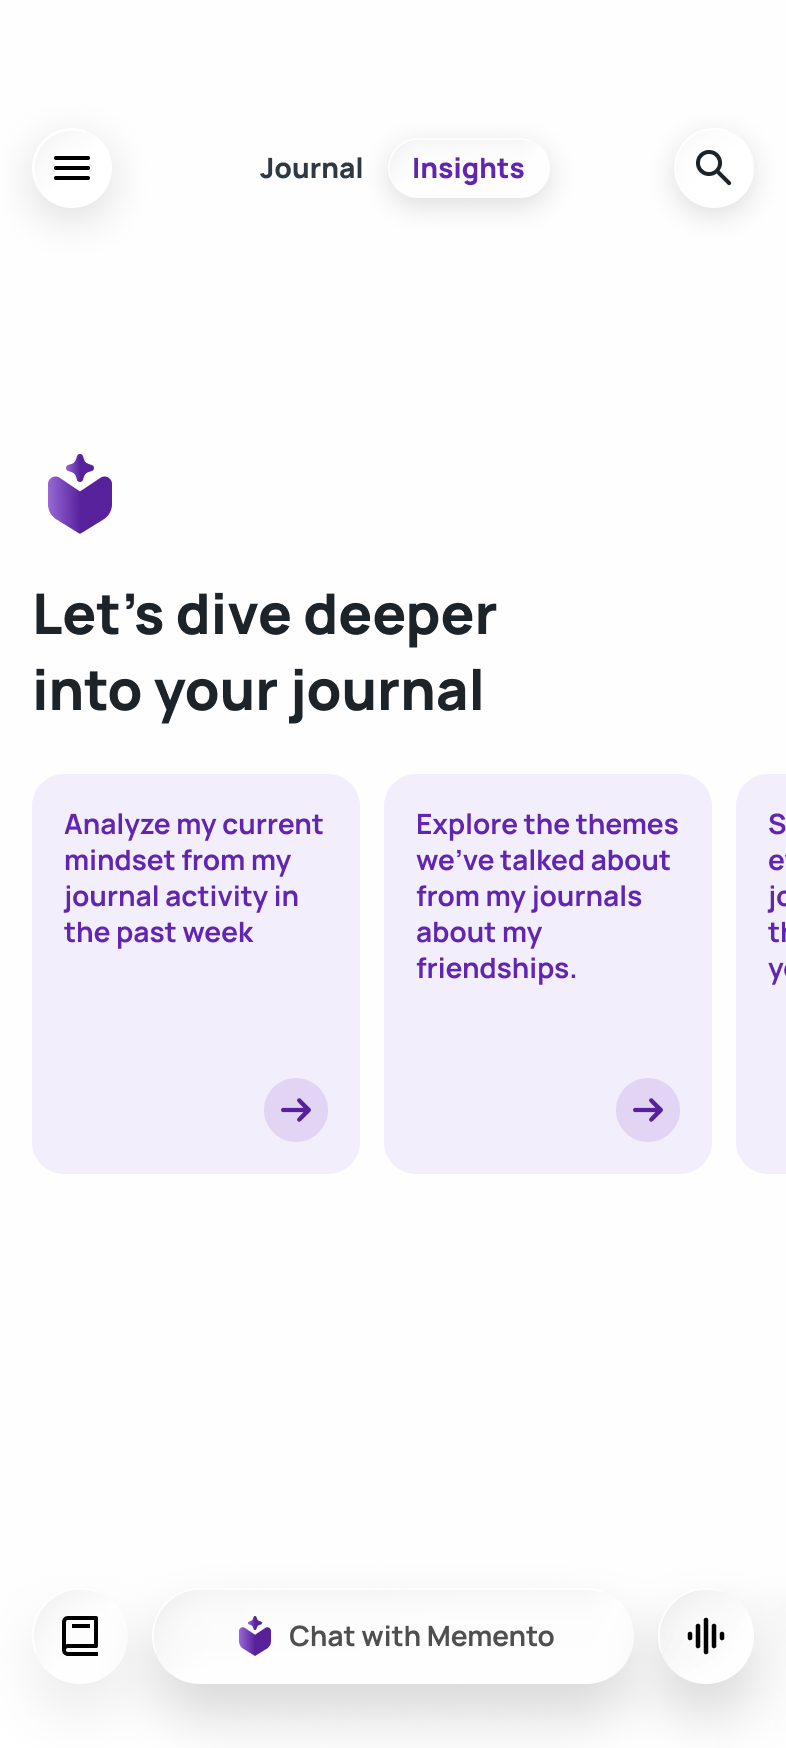
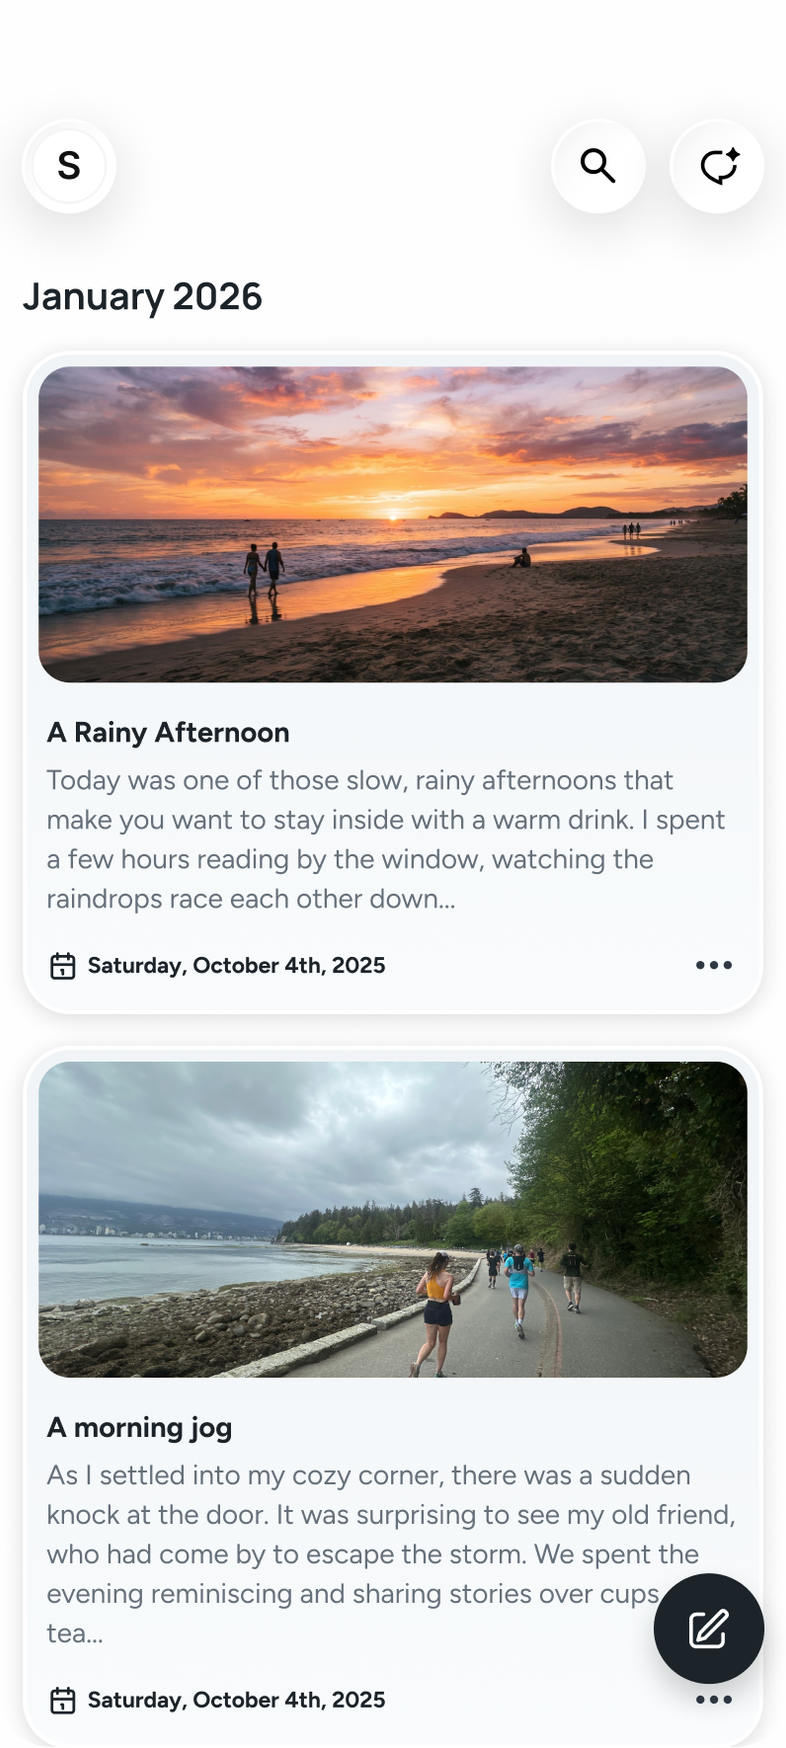
Fix deprecated Memento preview stills and drop rectangle tap outlines
Keep shipped Memento stills over stale CMS media, flatten phone screenshots, and remove rectangle tap outlines on index rows and the modal close control.

diff --git a/src/components/PortfolioIndex/PortfolioIndex.css b/src/components/PortfolioIndex/PortfolioIndex.css
@@ -143,10 +143,8 @@
 
 .portfolio-index__bio-link:focus-visible,
 .portfolio-index__link:focus-visible,
-.portfolio-index__item:focus-visible,
 .portfolio-index__well-cta:focus-visible,
-.portfolio-index__well-device:focus-visible,
-.portfolio-index__modal-close:focus-visible {
+.portfolio-index__well-device:focus-visible {
   outline: 2px solid var(--color-focus-ring);
   outline-offset: 2px;
   border-radius: 2px;
@@ -220,6 +218,8 @@
   padding: 0;
   border: 0;
   background: none;
+  appearance: none;
+  -webkit-appearance: none;
   font: inherit;
   font-size: 14px;
   line-height: 1.4;
@@ -230,6 +230,17 @@
   touch-action: pan-y;
   opacity: 0.42;
   transition: opacity var(--transition-fast);
+  -webkit-tap-highlight-color: transparent;
+}
+
+.portfolio-index__item:focus,
+.portfolio-index__item:focus-visible,
+.portfolio-index__item:active {
+  outline: none;
+}
+
+.portfolio-index__item:focus-visible {
+  opacity: 1;
 }
 
 .portfolio-index__item.is-active,
@@ -802,8 +813,21 @@
   padding: 0;
   border: 0;
   background: none;
+  appearance: none;
+  -webkit-appearance: none;
   color: var(--color-text-primary);
   cursor: pointer;
+  -webkit-tap-highlight-color: transparent;
+}
+
+.portfolio-index__modal-close:focus,
+.portfolio-index__modal-close:focus-visible,
+.portfolio-index__modal-close:active {
+  outline: none;
+}
+
+.portfolio-index__modal-close:focus-visible {
+  opacity: 0.72;
 }
 
 .portfolio-index__modal-close:hover {

diff --git a/src/lib/cms-data.test.ts b/src/lib/cms-data.test.ts
@@ -1,0 +1,34 @@
+import assert from 'node:assert/strict';
+import { test } from 'node:test';
+import { projects } from '../data/projects';
+import { mergeProject } from './cms-data';
+
+test('CMS preview src cannot replace shipped Memento stills', () => {
+  const memento = projects.find((project) => project.slug === 'memento-ai');
+  assert.ok(memento?.preview);
+
+  const merged = mergeProject(memento, {
+    thumbnail: '/assets/memento-ai.png',
+    preview: { src: '/assets/memento-ai.png' },
+  });
+
+  assert.equal(merged.preview?.src, '/assets/memento-journal-feed.png');
+  assert.equal(merged.preview?.companions?.[0]?.src, '/assets/memento-insights.png');
+  assert.equal(merged.thumbnail, '/assets/memento-journal-feed.png');
+});
+
+test('CMS can still attach preview video and url', () => {
+  const salesforce = projects.find((project) => project.slug === 'salesforce-help');
+  assert.ok(salesforce?.preview);
+
+  const merged = mergeProject(salesforce, {
+    preview: {
+      video: 'https://example.com/salesforce-help.mp4',
+      url: 'help.salesforce.com/s/contactsupport',
+    },
+  });
+
+  assert.equal(merged.preview?.src, salesforce.preview.src);
+  assert.equal(merged.preview?.video, 'https://example.com/salesforce-help.mp4');
+  assert.equal(merged.preview?.url, 'help.salesforce.com/s/contactsupport');
+});

diff --git a/src/lib/cms-data.ts b/src/lib/cms-data.ts
@@ -81,15 +81,25 @@ async function saveProjectsData(data: CmsData): Promise<void> {
   });
 }
 
-function mergeProject(base: Project, cms: CmsProjectData | undefined): Project {
+function mergePreview(
+  base: Project['preview'],
+  cms: CmsProjectData['preview'],
+): Project['preview'] {
+  if (!base) return base;
   if (!cms) return base;
   return {
     ...base,
-    thumbnail: cms.thumbnail ?? base.thumbnail,
-    preview:
-      base.preview && cms.preview
-        ? { ...base.preview, ...cms.preview }
-        : base.preview,
+    ...(cms.video ? { video: cms.video } : {}),
+    ...(cms.url ? { url: cms.url } : {}),
+  };
+}
+
+export function mergeProject(base: Project, cms: CmsProjectData | undefined): Project {
+  if (!cms) return base;
+  return {
+    ...base,
+    thumbnail: base.thumbnail ?? cms.thumbnail,
+    preview: mergePreview(base.preview, cms.preview),
     scrollyConfig: base.scrollyConfig
       ? {
           ...base.scrollyConfig,

diff --git a/src/data/projects.ts b/src/data/projects.ts
@@ -67,7 +67,7 @@ export const projects: Project[] = [
     company: 'Personal Project',
     role: 'Designer & Developer',
     tags: ['AI', 'Mobile', 'Personal'],
-    thumbnail: '/assets/memento-ai.png',
+    thumbnail: '/assets/memento-journal-feed.png',
     preview: {
       frame: 'phone',
       src: '/assets/memento-journal-feed.png',

diff --git a/src/components/PhoneStencil/phone-aspect-ratios.ts b/src/components/PhoneStencil/phone-aspect-ratios.ts
@@ -40,7 +40,7 @@ export const PHONE_SCREEN_AR = {
   mementoDemo: 750 / 1630,
   caseyRcs: 750 / 1638,
   chaseMyHomeDemo: 852 / 1848,
-  mementoPreview: 786 / 1748,
+  mementoPreview: 816 / 1770,
   caseyPreview: 786 / 1748,
   chasePreview: 786 / 1745,
   agenticPreview: 786 / 1748,

diff --git a/src/app/globals.css b/src/app/globals.css
@@ -148,3 +148,8 @@ b {
 a {
   color: inherit;
 }
+
+button,
+a {
+  -webkit-tap-highlight-color: transparent;
+}
